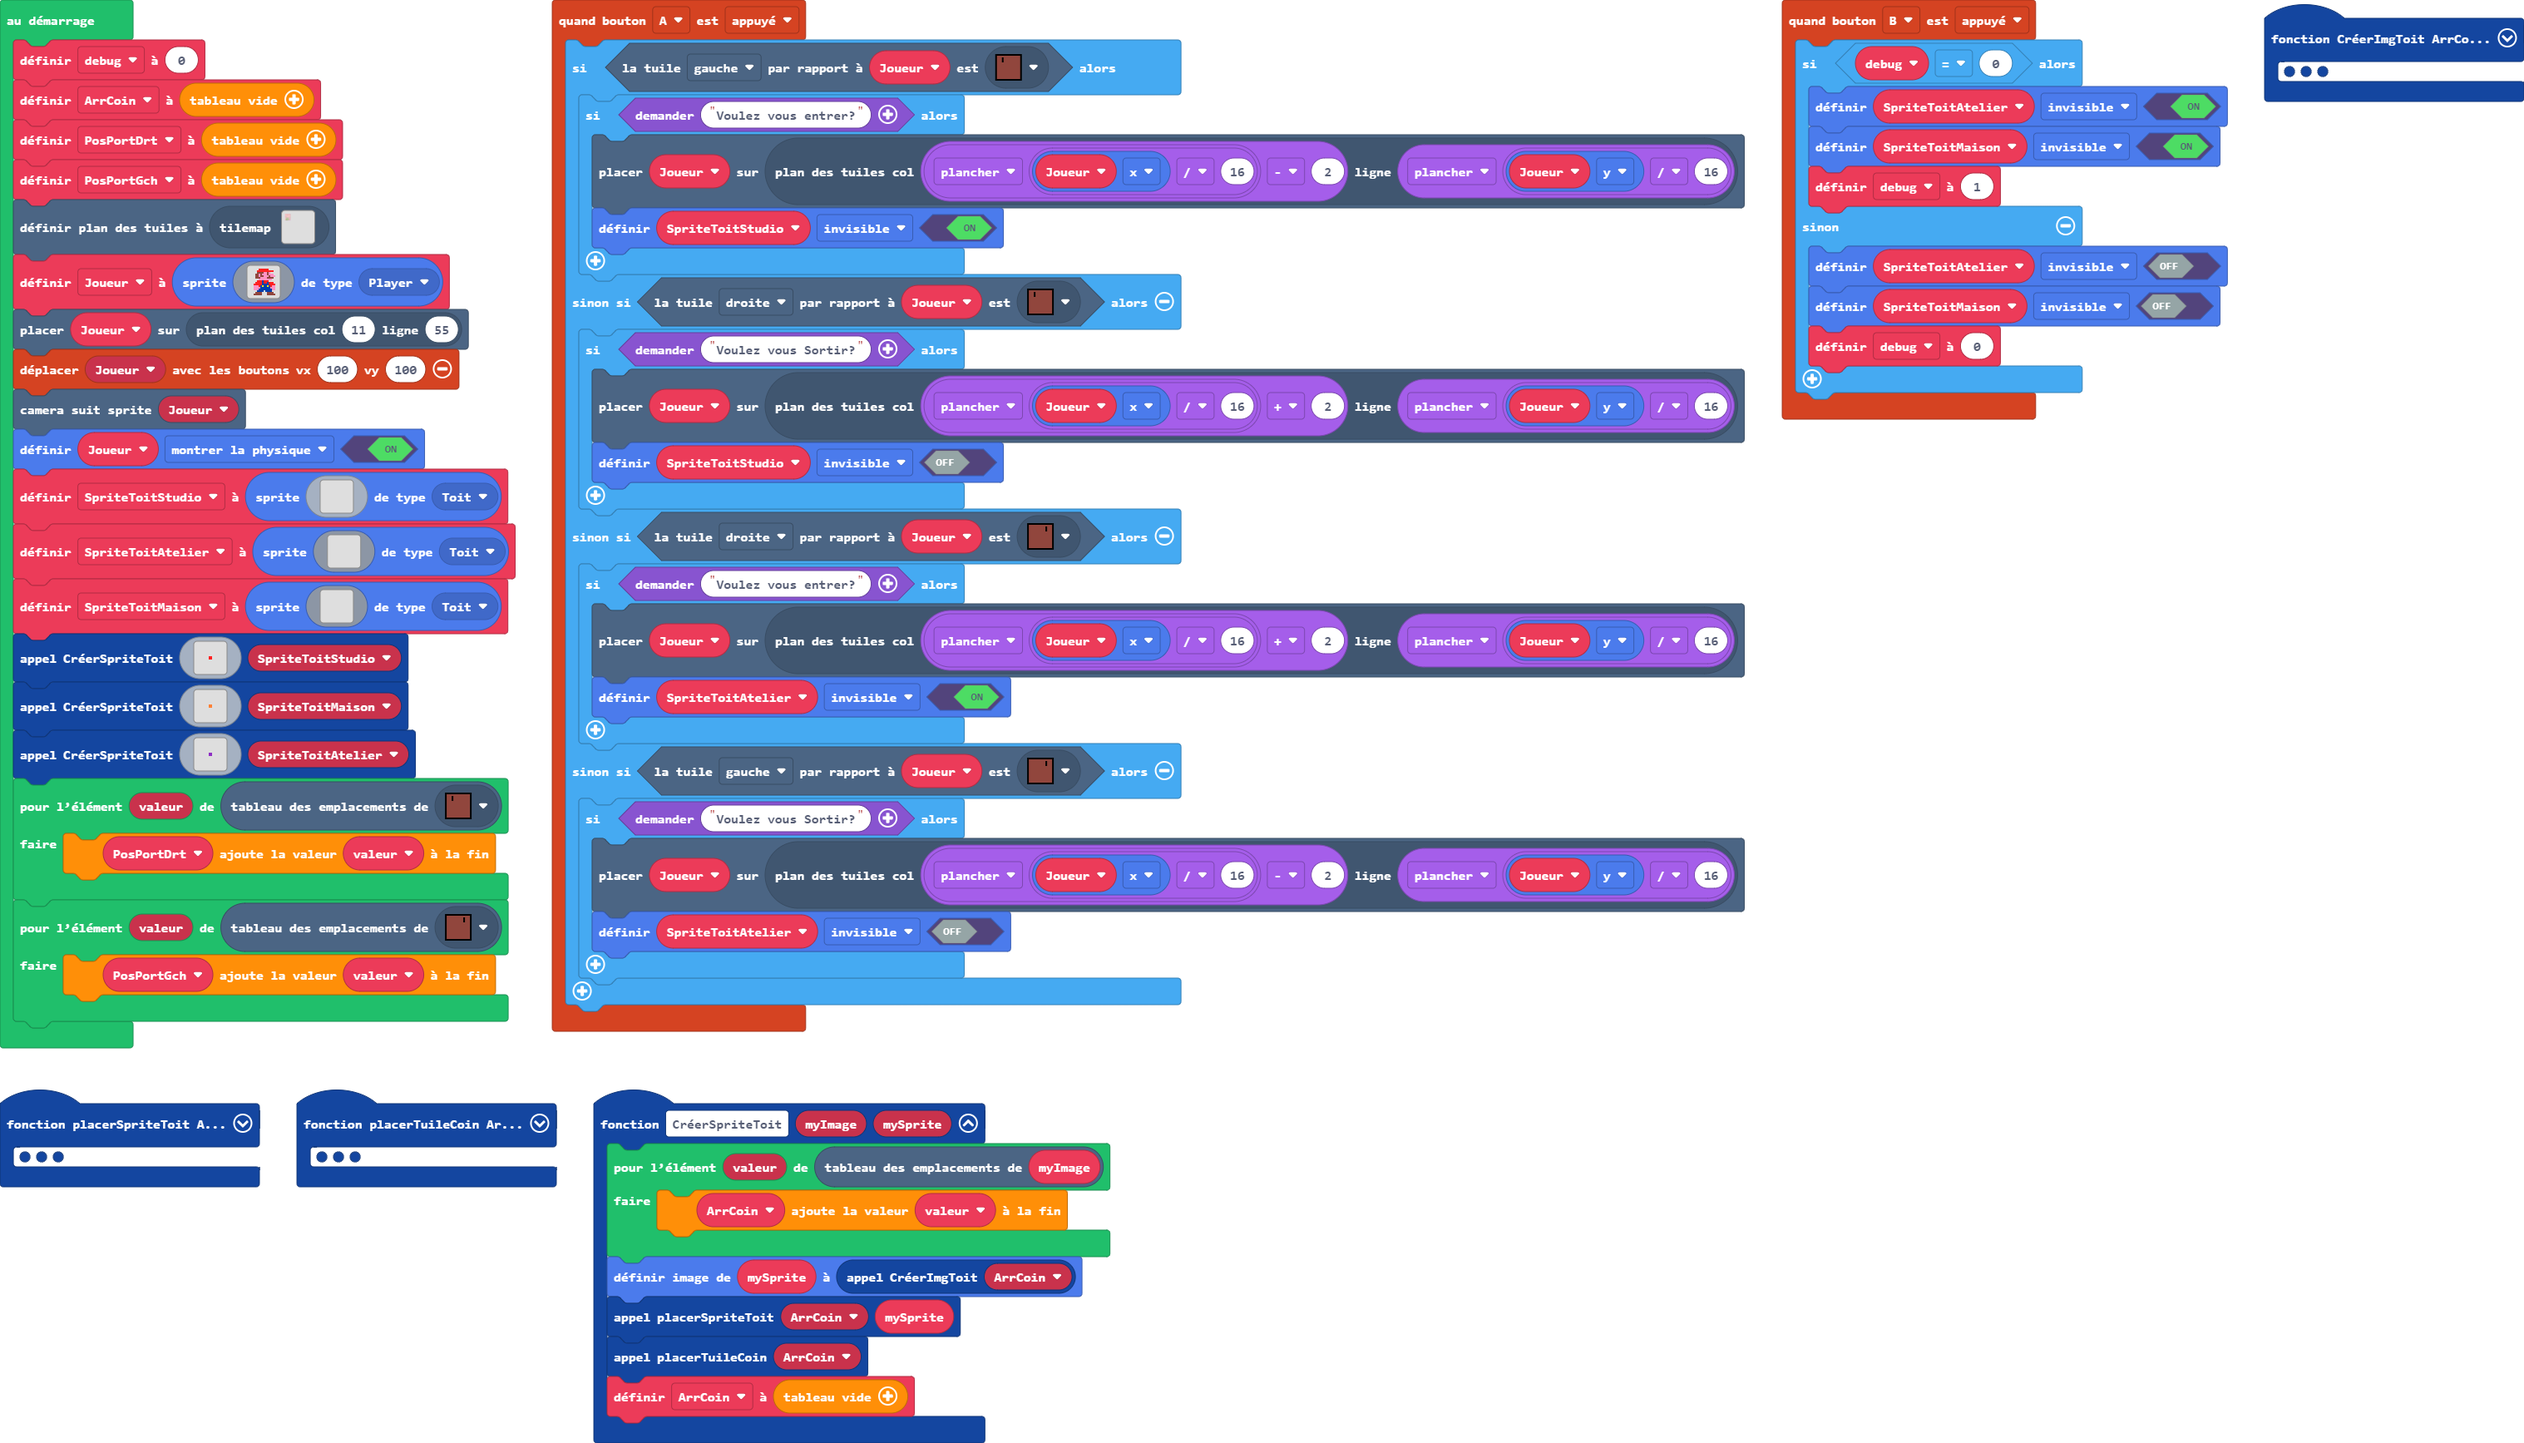
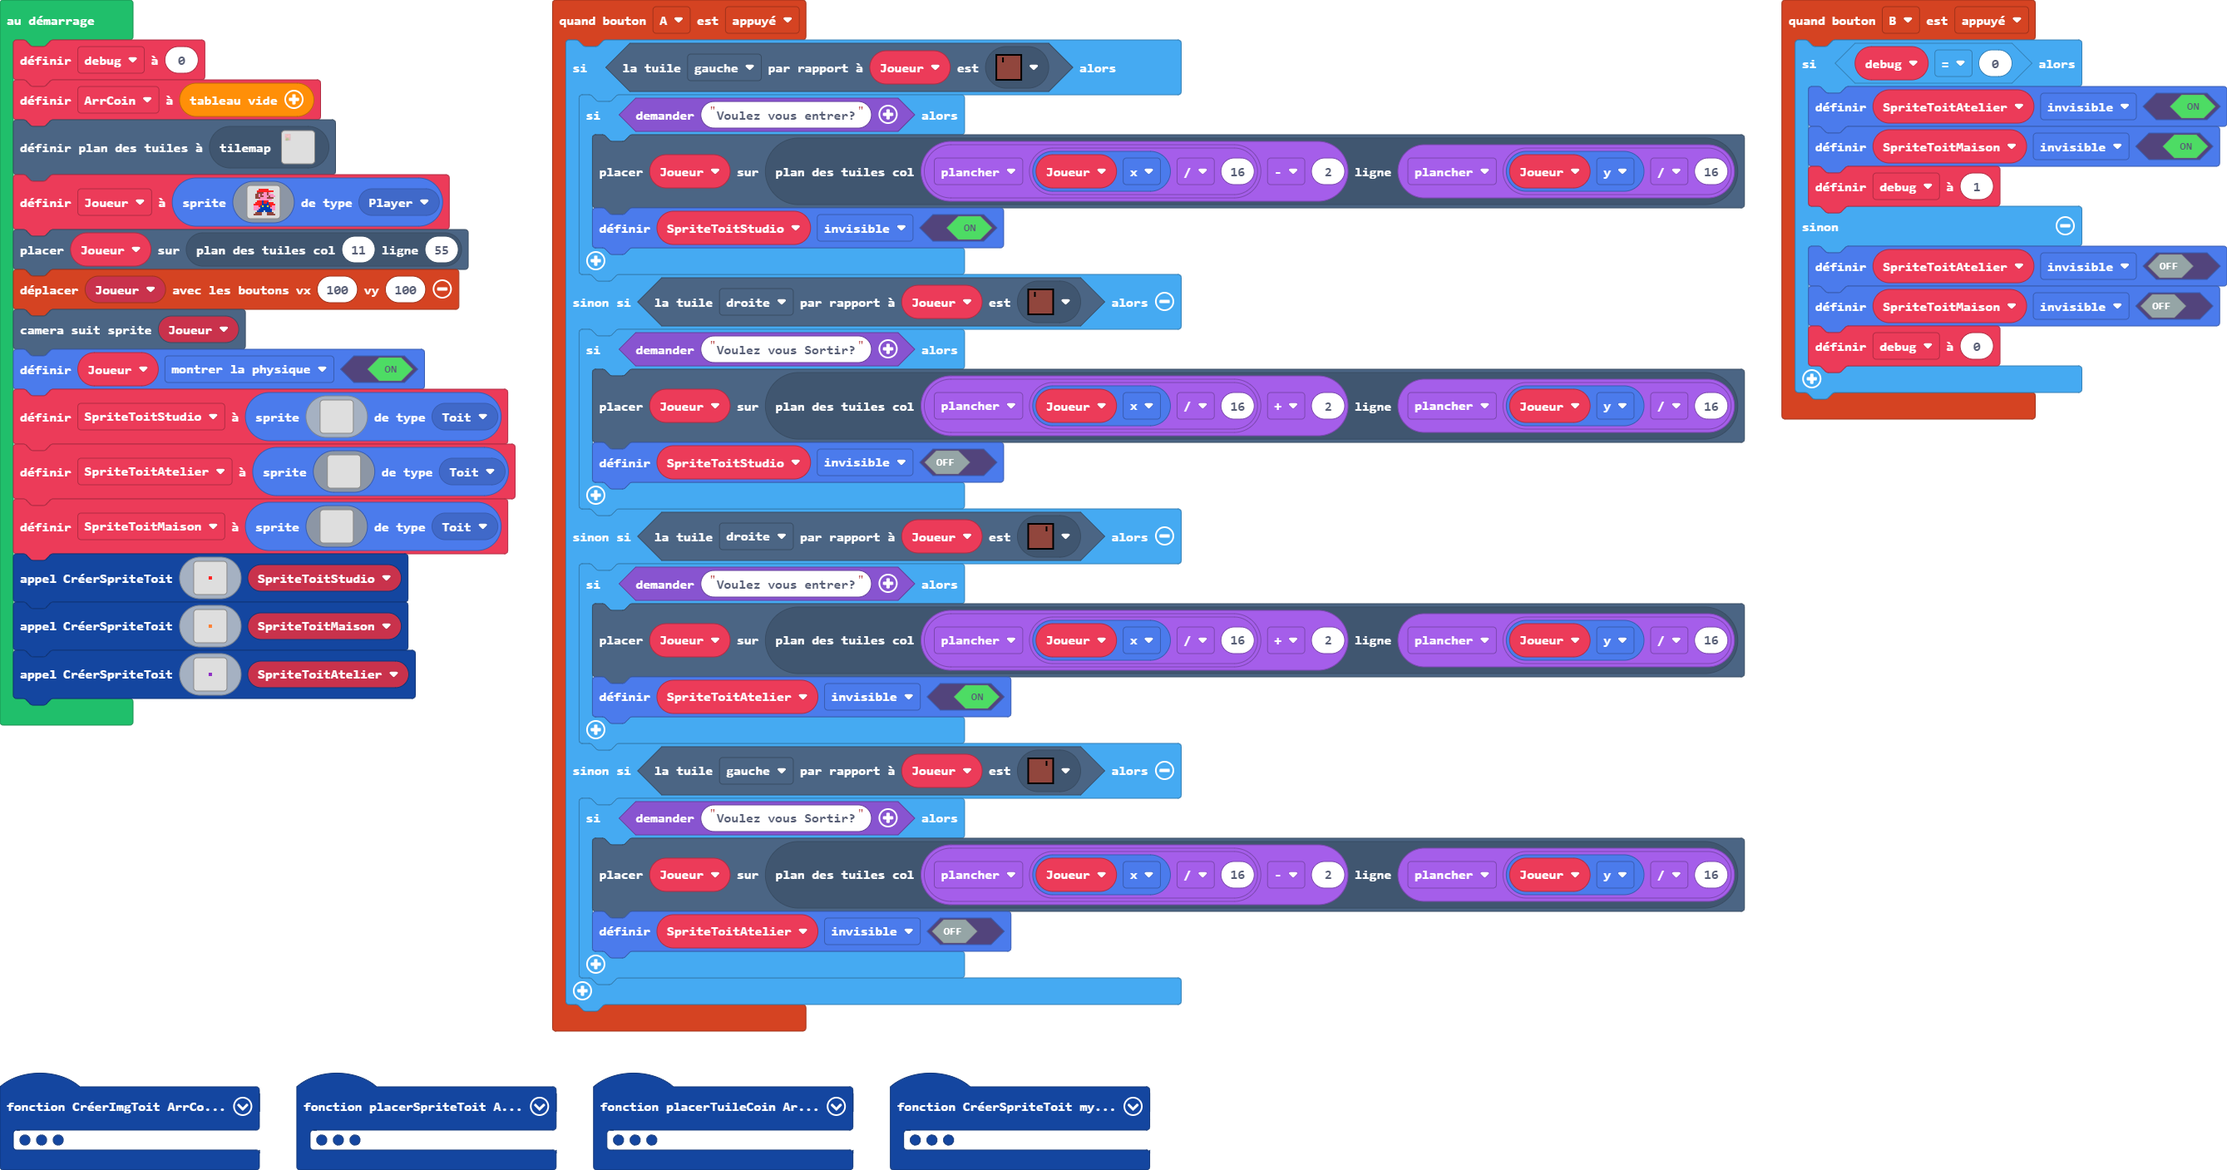
Mise à jour main.blocks, main.ts, tilemap.g.jres, tilemap.g.ts

diff --git a/tilemap.g.ts b/tilemap.g.ts
@@ -583,6 +583,44 @@ namespace myTiles {
 ...............................................................................................................................................................................................................................................................
 ...............................................................................................................................................................................................................................................................
 `, [myTiles.transparency16,myTiles.tile1,myTiles.tile2,myTiles.tile4,myTiles.tile5,sprites.castle.tileGrass2,sprites.dungeon.purpleOuterNorth1,sprites.dungeon.purpleOuterWest1,sprites.dungeon.purpleOuterNorth0,sprites.castle.tilePath5,sprites.swamp.swampTile16,myTiles.tile12,myTiles.tile15,sprites.castle.tilePath6,sprites.castle.tilePath8,sprites.castle.tileGrass3,sprites.castle.tilePath3,sprites.castle.tilePath9,sprites.castle.tileGrass1,sprites.castle.tilePath2,sprites.castle.tilePath7,sprites.castle.tilePath4,sprites.castle.tilePath1,sprites.swamp.swampTile9,sprites.dungeon.purpleOuterEast1,sprites.dungeon.purpleOuterEast0,myTiles.tile19,myTiles.tile20,myTiles.tile17,myTiles.tile21,myTiles.tile23,myTiles.tile22,myTiles.tile24,myTiles.tile25,sprites.dungeon.greenOuterEast0,sprites.dungeon.greenOuterWest0,sprites.dungeon.greenOuterSouth1,sprites.dungeon.greenOuterNorth0,myTiles.tile30,myTiles.tile31], TileScale.Sixteen);
+            case "niveau3":
+            case "niveau3":return tiles.createTilemap(hex`1000100000000000000000000000000000000000000000000000000000000000000000000000000000000000000000000000000000000000000000000000000000000000000000000000000000000000000000000000000000000000000000000000000000000000000000000000000000000000000000000000000000000000000000000000000000000000000000000000000000000000000000000000000000000000000000000000000000000000000000000000000000000000000000000000000000000000000000000000000000000000000000000000000000000000000000000000000000000000000000000000000000000000000000000000000000000000`, img`
+. . . . . . . . . . . . . . . . 
+. . . . . . . . . . . . . . . . 
+. . . . . . . . . . . . . . . . 
+. . . . . . . . . . . . . . . . 
+. . . . . . . . . . . . . . . . 
+. . . . . . . . . . . . . . . . 
+. . . . . . . . . . . . . . . . 
+. . . . . . . . . . . . . . . . 
+. . . . . . . . . . . . . . . . 
+. . . . . . . . . . . . . . . . 
+. . . . . . . . . . . . . . . . 
+. . . . . . . . . . . . . . . . 
+. . . . . . . . . . . . . . . . 
+. . . . . . . . . . . . . . . . 
+. . . . . . . . . . . . . . . . 
+. . . . . . . . . . . . . . . . 
+`, [myTiles.transparency16], TileScale.Sixteen);
+            case "niveau4":
+            case "niveau4":return tiles.createTilemap(hex`1000100000000000000000000000000000000000000000000000000000000000000000000000000000000000000000000000000000000000000000000000000000000000000000000000000000000000000000000000000000000000000000000000000000000000000000000000000000000000000000000000000000000000000000000000000000000000000000000000000000000000000000000000000000000000000000000000000000000000000000000000000000000000000000000000000000000000000000000000000000000000000000000000000000000000000000000000000000000000000000000000000000000000000000000000000000000000`, img`
+. . . . . . . . . . . . . . . . 
+. . . . . . . . . . . . . . . . 
+. . . . . . . . . . . . . . . . 
+. . . . . . . . . . . . . . . . 
+. . . . . . . . . . . . . . . . 
+. . . . . . . . . . . . . . . . 
+. . . . . . . . . . . . . . . . 
+. . . . . . . . . . . . . . . . 
+. . . . . . . . . . . . . . . . 
+. . . . . . . . . . . . . . . . 
+. . . . . . . . . . . . . . . . 
+. . . . . . . . . . . . . . . . 
+. . . . . . . . . . . . . . . . 
+. . . . . . . . . . . . . . . . 
+. . . . . . . . . . . . . . . . 
+. . . . . . . . . . . . . . . . 
+`, [myTiles.transparency16], TileScale.Sixteen);
         }
         return null;
     })

diff --git a/main.ts b/main.ts
@@ -86,8 +86,6 @@ let ArrCoin: tiles.Location[] = []
 let debug = 0
 debug = 0
 ArrCoin = []
-let PosPortDrt: tiles.Location[] = []
-let PosPortGch: tiles.Location[] = []
 tiles.setCurrentTilemap(tilemap`niveau2`)
 Joueur = sprites.create(img`
     . . . . . 2 2 2 2 2 2 . . . . . 
@@ -185,9 +183,3 @@ CréerSpriteToit(img`
     . . . . . . . . . . . . . . . . 
     . . . . . . . . . . . . . . . . 
     `, SpriteToitAtelier)
-for (let valeur of tiles.getTilesByType(assets.tile`TuilePorteGch`)) {
-    PosPortDrt.push(valeur)
-}
-for (let valeur of tiles.getTilesByType(assets.tile`TuilePorteGch0`)) {
-    PosPortGch.push(valeur)
-}
